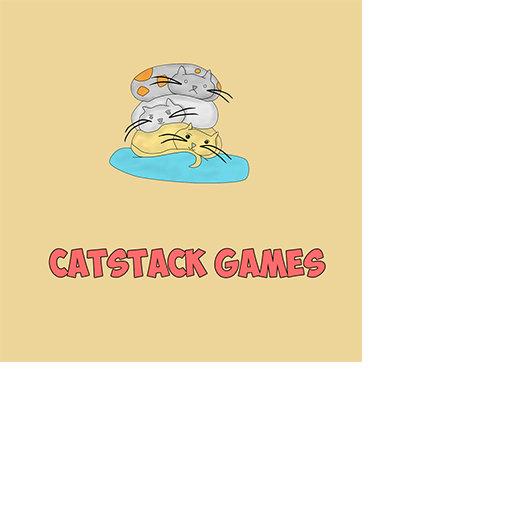
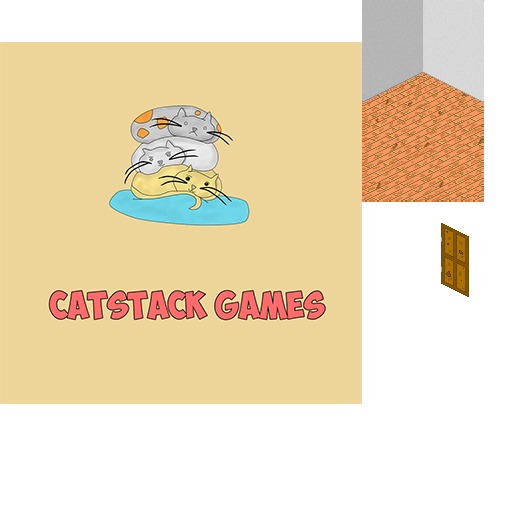
Interior objects system

diff --git a/core/src/ru/catstack/programmerclicker/resources/Upgrades.java b/core/src/ru/catstack/programmerclicker/resources/Upgrades.java
@@ -1,0 +1,39 @@
+package ru.catstack.programmerclicker.resources;
+
+import com.badlogic.gdx.graphics.g2d.TextureRegion;
+
+public enum Upgrades {
+
+    HOUSE1(IMG.HOUSE1.getTextureRegion(), 0, true),
+    DOOR1(IMG.DOOR1.getTextureRegion(), 0, true),
+
+    ;
+
+    private TextureRegion upgradeTexture;
+    private int price;
+    private boolean isHaving;
+
+    Upgrades(TextureRegion upgradeTexture, int price) {
+        this.upgradeTexture = upgradeTexture;
+        this.price = price;
+        isHaving = false;
+    }
+
+    Upgrades(TextureRegion upgradeTexture, int price, boolean isHaving) {
+        this.upgradeTexture = upgradeTexture;
+        this.price = price;
+        this.isHaving = isHaving;
+    }
+
+    public TextureRegion getUpgradeTexture() {
+        return upgradeTexture;
+    }
+
+    public int getPrice() {
+        return price;
+    }
+
+    public boolean isHaving() {
+        return isHaving;
+    }
+}

diff --git a/core/src/ru/catstack/programmerclicker/screens/GameScreen.java b/core/src/ru/catstack/programmerclicker/screens/GameScreen.java
@@ -1,19 +1,39 @@
 package ru.catstack.programmerclicker.screens;
 
 import ru.catstack.programmerclicker.engine.MyGdxGame;
+import ru.catstack.programmerclicker.objects.interior.Door;
+import ru.catstack.programmerclicker.objects.interior.House;
 
 public class GameScreen extends Base2DScreen {
+
+    private House house;
+    private Door door;
+
     public GameScreen(MyGdxGame myGdxGame) {
         super(myGdxGame);
     }
 
     @Override
+    public void show(){
+        super.show();
+        house = new House();
+        door = new Door();
+    }
+
+    @Override
     public void update(float delta) {
         super.update(delta);
+
+        house.update();
+        door.update();
     }
 
     @Override
     public void draw() {
         super.draw();
+        batch.begin();
+        house.draw(batch);
+        door.draw(batch);
+        batch.end();
     }
 }

diff --git a/core/src/ru/catstack/programmerclicker/objects/UpgradableObject.java b/core/src/ru/catstack/programmerclicker/objects/UpgradableObject.java
@@ -1,0 +1,26 @@
+package ru.catstack.programmerclicker.objects;
+
+import com.badlogic.gdx.graphics.g2d.TextureRegion;
+import ru.catstack.programmerclicker.resources.Upgrades;
+
+public class UpgradableObject extends Object{
+
+    private Upgrades thisUpgrade;
+
+    public UpgradableObject(TextureRegion textureRegion, float x, float y, Upgrades thisUpgrade) {
+        super(textureRegion, x, y);
+        this.thisUpgrade = thisUpgrade;
+    }
+
+    public void setThisUpgrade(Upgrades thisUpgrade){
+        this.thisUpgrade = thisUpgrade;
+    }
+
+    @Override
+    public void update() {
+        //set new TextureRegion if TRegion of this object != current TRegion
+        if(!sprite.getTexture().equals(thisUpgrade.getUpgradeTexture())){
+            sprite.setRegion(thisUpgrade.getUpgradeTexture());
+        }
+    }
+}

diff --git a/core/src/ru/catstack/programmerclicker/objects/Player.java b/core/src/ru/catstack/programmerclicker/objects/Player.java
@@ -1,0 +1,25 @@
+package ru.catstack.programmerclicker.objects;
+
+import ru.catstack.programmerclicker.resources.Upgrades;
+
+public class Player {
+
+    private static Upgrades thisHouse = Upgrades.HOUSE1;
+    private static Upgrades thisDoor = Upgrades.DOOR1;
+
+    public static Upgrades getThisHouse() {
+        return thisHouse;
+    }
+
+    public static void setThisHouse(Upgrades thisHouse) {
+        Player.thisHouse = thisHouse;
+    }
+
+    public static Upgrades getThisDoor() {
+        return thisDoor;
+    }
+
+    public static void setThisDoor(Upgrades thisDoor) {
+        Player.thisDoor = thisDoor;
+    }
+}

diff --git a/core/src/ru/catstack/programmerclicker/objects/Object.java b/core/src/ru/catstack/programmerclicker/objects/Object.java
@@ -1,0 +1,24 @@
+package ru.catstack.programmerclicker.objects;
+
+import com.badlogic.gdx.graphics.g2d.Sprite;
+import com.badlogic.gdx.graphics.g2d.SpriteBatch;
+import com.badlogic.gdx.graphics.g2d.TextureRegion;
+
+public class Object {
+
+    protected Sprite sprite;
+
+    public Object(TextureRegion textureRegion, float x, float y){
+        sprite = new Sprite(textureRegion);
+        sprite.setX(x);
+        sprite.setY(y);
+    }
+
+    public void update(){
+
+    }
+
+    public void draw(SpriteBatch batch){
+        sprite.draw(batch);
+    }
+}

diff --git a/core/src/ru/catstack/programmerclicker/engine/Core.java b/core/src/ru/catstack/programmerclicker/engine/Core.java
@@ -8,8 +8,8 @@ public class Core {
     public static int HEIGHT;
     public static int WIDTH_HALF;
     public static int HEIGHT_HALF;
-    public static final int D_WIDTH = 480;
-    public static final int D_HEIGHT = 800;
+    public static final int D_WIDTH = 480/4;
+    public static final int D_HEIGHT = 800/4;
     public static final int D_WIDTH_HALF = D_WIDTH >> 1;
     public static final int D_HEIGHT_HALF = D_HEIGHT >> 1;
     public static Viewport viewport;

diff --git a/core/src/ru/catstack/programmerclicker/objects/interior/House.java b/core/src/ru/catstack/programmerclicker/objects/interior/House.java
@@ -1,0 +1,10 @@
+package ru.catstack.programmerclicker.objects.interior;
+
+import ru.catstack.programmerclicker.objects.Player;
+import ru.catstack.programmerclicker.objects.UpgradableObject;
+
+public class House extends UpgradableObject {
+    public House() {
+        super(Player.getThisHouse().getUpgradeTexture(), 0, 0, Player.getThisHouse());
+    }
+}

diff --git a/core/src/ru/catstack/programmerclicker/objects/interior/Door.java b/core/src/ru/catstack/programmerclicker/objects/interior/Door.java
@@ -1,0 +1,11 @@
+package ru.catstack.programmerclicker.objects.interior;
+
+import ru.catstack.programmerclicker.objects.Player;
+import ru.catstack.programmerclicker.objects.UpgradableObject;
+
+public class Door extends UpgradableObject {
+
+    public Door() {
+        super(Player.getThisDoor().getUpgradeTexture(), 0, 0, Player.getThisDoor());
+    }
+}

diff --git a/core/src/ru/catstack/programmerclicker/resources/IMG.java b/core/src/ru/catstack/programmerclicker/resources/IMG.java
@@ -6,6 +6,8 @@ import com.badlogic.gdx.graphics.g2d.TextureRegion;
 
 public enum IMG {
     CATSTACK("CatStackGames360x360"),
+    HOUSE1("House1"),
+    DOOR1("Door1"),
     ;
 
     private static final String ATLAS_PATH = "ProgrammerClicker.pack";
